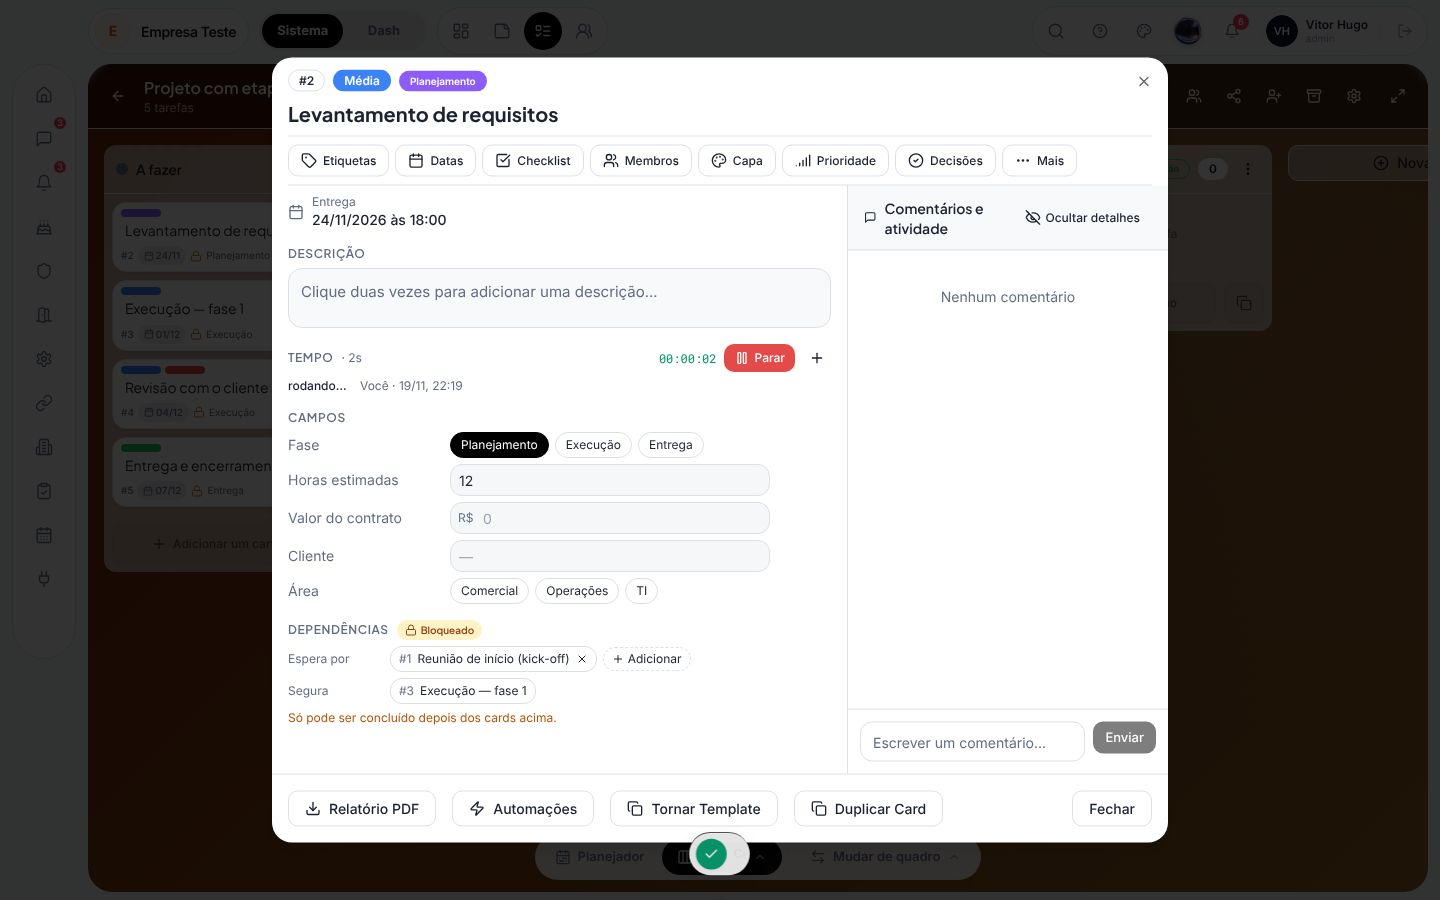
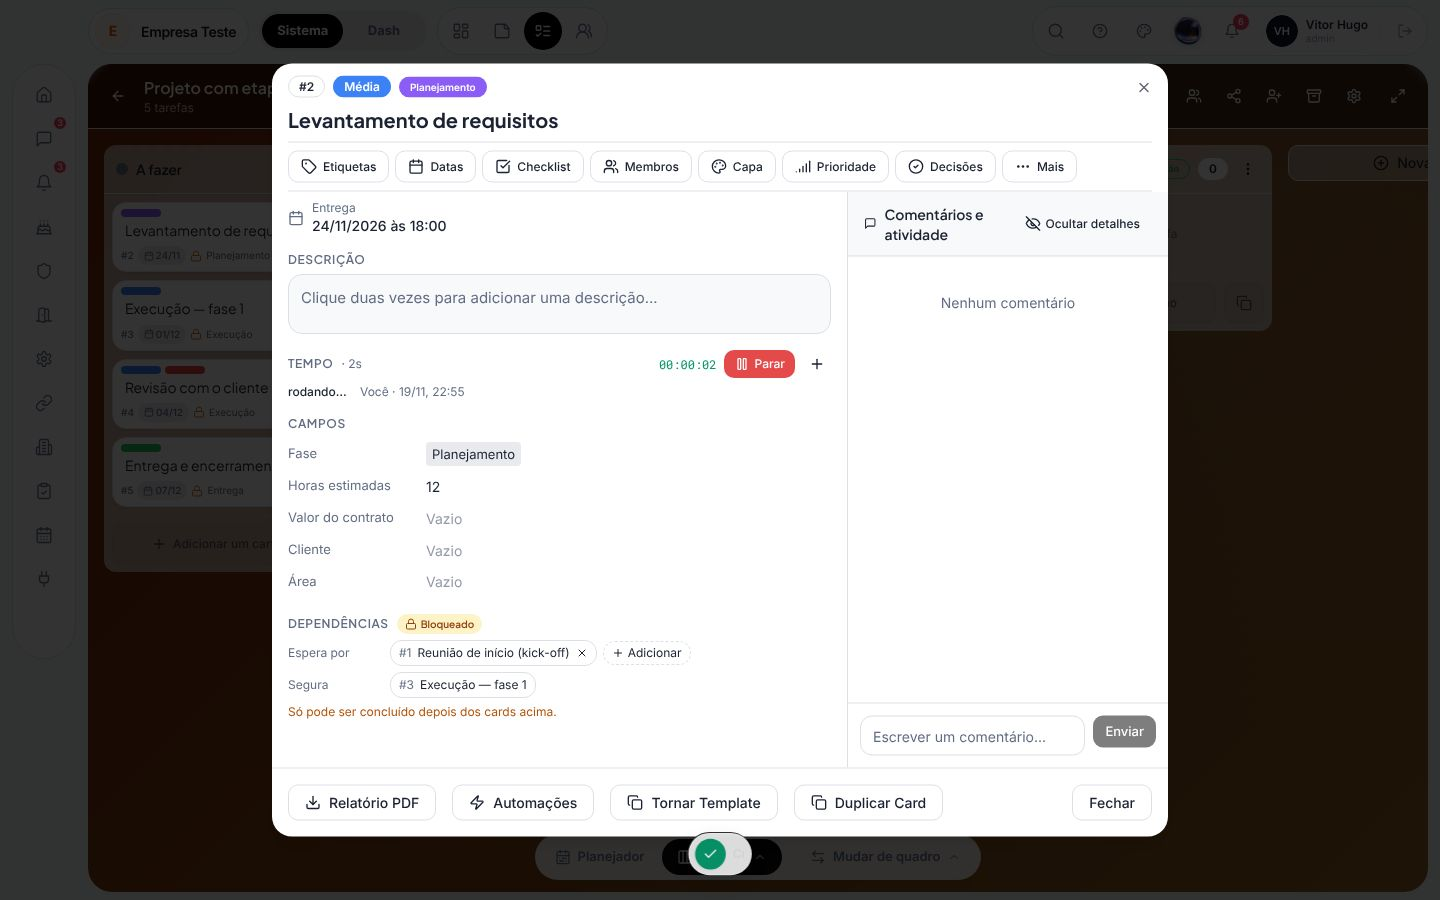
Card: campos personalizados como lista de propriedades limpa (sem caixas, listas e datas em seletor), progresso geral só com vários checklists
Claude-Session: https://claude.ai/code/session_01LEVXUKAxSR1y1Zz3Q6EDm6

diff --git a/src/components/tasks/CardExtrasPanel.tsx b/src/components/tasks/CardExtrasPanel.tsx
@@ -2,7 +2,9 @@
 // dependencies ("Bloqueado por" / "Bloqueia"). Uses the BoardExtrasProvider of the open mural; renders nothing when the
 // card is opened outside a mural.
 import { useEffect, useState } from 'react';
-import { Lock, Plus, Search, X } from 'lucide-react';
+import { ptBR } from 'date-fns/locale';
+import { Calendar } from '@/components/ui/calendar';
+import { Check, Lock, Plus, Search, X } from 'lucide-react';
 import { supabase } from '@/integrations/supabase/client';
 import { useBoardExtras, fieldText, type CustomField } from '@/hooks/useBoardExtras';
 import { Popover, PopoverContent, PopoverTrigger } from '@/components/ui/popover';
@@ -11,18 +13,53 @@ import { CardLinks } from './CardLinks';
 
 type Mini = { id: string; task_number: number | null; title: string; completed_at: string | null; status: string };
 
+// One property row value, Notion-style: no visible box until hover/focus, "Vazio" when empty, lists and dates open
+// a small picker instead of showing every option.
 function FieldInput({ f, value, onChange, disabled }: { f: CustomField; value: unknown; onChange: (v: unknown) => void; disabled?: boolean }) {
-  const [txt, setTxt] = useState(value == null ? '' : String(value));
-  useEffect(() => { setTxt(value == null ? '' : String(value)); }, [value]);
-  const cls = 'h-8 w-full max-w-[320px] rounded-md border border-border bg-background px-2 text-sm outline-none focus:border-primary disabled:opacity-60';
-  if (f.type === 'checkbox') return <button type="button" disabled={disabled} onClick={() => onChange(!value)} className={`h-8 rounded-md border px-3 text-sm ${value ? 'border-emerald-500 bg-emerald-50 text-emerald-700 dark:bg-emerald-950/40 dark:text-emerald-300' : 'border-border'}`}>{value ? 'Sim' : 'Não'}</button>;
+  const show = (v: unknown) => v == null || v === '' ? '' : f.type === 'money' ? Number(v).toLocaleString('pt-BR', { minimumFractionDigits: 2, maximumFractionDigits: 2 }) : f.type === 'number' ? Number(v).toLocaleString('pt-BR') : String(v);
+  const [txt, setTxt] = useState(show(value));
+  const [open, setOpen] = useState(false);
+  useEffect(() => { setTxt(show(value)); /* eslint-disable-next-line react-hooks/exhaustive-deps */ }, [value]);
+  const cell = `flex h-8 w-full items-center gap-1.5 rounded-md px-2 text-left text-sm ${disabled ? '' : 'hover:bg-muted/70 focus-within:bg-muted/70'}`;
+  const empty = <span className="text-muted-foreground/70">Vazio</span>;
+  if (f.type === 'checkbox') return (
+    <button type="button" disabled={disabled} onClick={() => onChange(!value)} className={cell}>
+      <span className={`grid h-4 w-4 place-items-center rounded border ${value ? 'border-primary bg-primary text-primary-foreground' : 'border-muted-foreground/40'}`}>{value ? <Check className="h-3 w-3" strokeWidth={3} /> : null}</span>
+      <span className={value ? '' : 'text-muted-foreground'}>{value ? 'Sim' : 'Não'}</span>
+    </button>);
   if (f.type === 'select') return (
-    <div className="flex flex-wrap gap-1.5">{f.options.map((o) => { const on = value === o; return <button key={o} type="button" disabled={disabled} onClick={() => onChange(on ? null : o)} className={`rounded-full border px-2.5 py-1 text-xs ${on ? 'border-primary bg-primary text-primary-foreground' : 'border-border hover:bg-muted'}`}>{o}</button>; })}{!f.options.length ? <span className="text-xs text-muted-foreground">Sem opções configuradas</span> : null}</div>);
-  if (f.type === 'date') return <input type="date" className={cls} disabled={disabled} value={value ? String(value) : ''} onChange={(e) => onChange(e.target.value || null)} />;
+    <Popover open={open} onOpenChange={(o) => !disabled && setOpen(o)}>
+      <PopoverTrigger asChild>
+        <button type="button" disabled={disabled} className={cell}>{value ? <span className="truncate rounded bg-muted px-1.5 py-0.5 text-[13px]">{String(value)}</span> : empty}</button>
+      </PopoverTrigger>
+      <PopoverContent align="start" className="w-56 p-1">
+        {f.options.map((o) => (
+          <button key={o} type="button" className="flex w-full items-center gap-2 rounded px-2 py-1.5 text-left text-sm hover:bg-muted" onClick={() => { onChange(o); setOpen(false); }}>
+            <span className="flex-1 truncate">{o}</span>{value === o ? <Check className="h-4 w-4 text-primary" /> : null}
+          </button>))}
+        {!f.options.length ? <p className="px-2 py-1.5 text-xs text-muted-foreground">Sem opções configuradas</p> : null}
+        {value ? <button type="button" className="mt-1 w-full rounded border-t border-border px-2 py-1.5 text-left text-xs text-muted-foreground hover:bg-muted" onClick={() => { onChange(null); setOpen(false); }}>Limpar</button> : null}
+      </PopoverContent>
+    </Popover>);
+  if (f.type === 'date') {
+    const sel = value ? (() => { const [y, m, d] = String(value).split('-').map(Number); return new Date(y, m - 1, d); })() : undefined;
+    const ymd = (d: Date) => `${d.getFullYear()}-${String(d.getMonth() + 1).padStart(2, '0')}-${String(d.getDate()).padStart(2, '0')}`;
+    return (
+      <Popover open={open} onOpenChange={(o) => !disabled && setOpen(o)}>
+        <PopoverTrigger asChild><button type="button" disabled={disabled} className={cell}>{value ? fieldText(f, value) : empty}</button></PopoverTrigger>
+        <PopoverContent align="start" className="w-auto p-0">
+          <Calendar mode="single" locale={ptBR} selected={sel} defaultMonth={sel} onSelect={(d) => { onChange(d ? ymd(d) : null); setOpen(false); }} initialFocus />
+          {value ? <button type="button" className="w-full border-t border-border px-3 py-2 text-left text-xs text-muted-foreground hover:bg-muted" onClick={() => { onChange(null); setOpen(false); }}>Limpar data</button> : null}
+        </PopoverContent>
+      </Popover>);
+  }
   const num = f.type === 'number' || f.type === 'money';
-  const commit = () => { const t = txt.trim(); if (!t) { if (value != null) onChange(null); return; } if (num) { const n = Number(t.replace(/\./g, '').replace(',', '.')); if (!isNaN(n) && n !== value) onChange(n); else if (isNaN(n)) setTxt(value == null ? '' : String(value)); } else if (t !== value) onChange(t.slice(0, 500)); };
-  return <div className="relative">{f.type === 'money' ? <span className="pointer-events-none absolute left-2 top-1/2 -translate-y-1/2 text-xs text-muted-foreground">R$</span> : null}
-    <input className={cls + (f.type === 'money' ? ' pl-8' : '')} disabled={disabled} inputMode={num ? 'decimal' : undefined} value={txt} onChange={(e) => setTxt(e.target.value)} onBlur={commit} onKeyDown={(e) => { if (e.key === 'Enter') (e.target as HTMLInputElement).blur(); }} placeholder={num ? '0' : '—'} /></div>;
+  const commit = () => { const t = txt.trim(); if (!t) { if (value != null) onChange(null); return; } if (num) { const n = Number(t.replace(/\./g, '').replace(',', '.')); if (!isNaN(n) && n !== value) onChange(n); else setTxt(show(value)); } else if (t !== value) onChange(t.slice(0, 500)); };
+  return (
+    <label className={cell}>
+      {f.type === 'money' && txt ? <span className="text-muted-foreground">R$</span> : null}
+      <input className="h-full min-w-0 flex-1 bg-transparent outline-none placeholder:text-muted-foreground/70 disabled:cursor-default" disabled={disabled} inputMode={num ? 'decimal' : undefined} value={txt} onChange={(e) => setTxt(e.target.value)} onBlur={commit} onKeyDown={(e) => { if (e.key === 'Enter') (e.target as HTMLInputElement).blur(); }} placeholder="Vazio" />
+    </label>);
 }
 
 export function CardExtrasPanel({ task, boardId, readOnly, conclusionIds, showLinks, showDeps }: { task: { id: string }; boardId: string; readOnly?: boolean; conclusionIds?: Set<string>; showLinks?: boolean; showDeps?: boolean }) {
@@ -49,11 +86,12 @@ export function CardExtrasPanel({ task, boardId, readOnly, conclusionIds, showLi
       {x.fields.length ? (
         <div className="px-4 py-2">
           <H>Campos</H>
-          <div className="grid gap-x-3 gap-y-1.5 sm:grid-cols-[150px_1fr]">
-            {x.fields.map((f) => [
-              <span key={f.id + 'l'} className="self-center truncate text-sm text-muted-foreground" title={f.name}>{f.name}</span>,
-              <div key={f.id + 'v'}><FieldInput f={f} value={x.valueOf(task.id, f.id)} disabled={readOnly} onChange={(v) => void x.setValue(task.id, f.id, v)} /></div>,
-            ])}
+          <div className="-mx-2 max-w-[520px]">
+            {x.fields.map((f) => (
+              <div key={f.id} className="flex items-center gap-2">
+                <span className="w-[130px] shrink-0 truncate px-2 text-[13px] text-muted-foreground" title={f.name}>{f.name}</span>
+                <div className="min-w-0 flex-1"><FieldInput f={f} value={x.valueOf(task.id, f.id)} disabled={readOnly} onChange={(v) => void x.setValue(task.id, f.id, v)} /></div>
+              </div>))}
           </div>
         </div>) : null}
       <CardLinks taskId={task.id} readOnly={readOnly} forceOpen={showLinks} />

diff --git a/src/components/tasks/TaskDetailDialog.tsx b/src/components/tasks/TaskDetailDialog.tsx
@@ -1074,7 +1074,7 @@ export function TaskDetailDialog({ task, open, onOpenChange, onUpdateTask, taskL
     );
   };
 
-  const renderProgress = () => total > 0 ? (
+  const renderProgress = () => total > 0 && groups.length !== 1 ? (
     <div className="px-4 py-1">
       <div className="flex items-center justify-between mb-1">
         <span className="text-xs text-muted-foreground">Progresso geral</span>

diff --git a/AGENTS.md b/AGENTS.md
@@ -104,4 +104,4 @@
 - Competitive pack 1 (Tarefas): "Minhas tarefas" (`/tarefas/minhas-tarefas`, `MyTasksView`: the person's open cards from every mural — assigned_to or task_assignees — grouped Atrasadas/Hoje/Próximos 7 dias/Depois/Sem prazo + concluídas em 7 dias; opens `/tarefas/<slug>?abrir=<task>`, which BoardView handles; the legacy `?board=&task=` redirect now keeps the card as `abrir`). "Modelos" (`TemplatesDialog`, styles src/styles/templates.css prefix `tp-`, theme tokens, no emojis: areas + search on the left, models in the middle with lucide icons, preview of the columns/example cards and "O que vem no modelo" on the right, name + "Usar modelo" in the footer). src/lib/boardTemplates.ts has 16 models in 6 areas (`TEMPLATE_AREAS`); each = columns, labels, example cards (relative start/due dates, checklists) through importBoard with an explicit conclusion column (`DONE_COL` → `ImpBoard.doneCol`), then `applyTemplateExtras` adds custom fields + values, dependencies, instant automation rules (columns/labels resolved by name) and, for some, a public form created PAUSED (`enabled:false`). Public form per mural (migration 20261119050000: `board_forms` + `board_form_hits`, RPCs `public_form_view` / `public_form_submit` for anon; first question = card title, others go escaped into the description; honeypot `_hp`; 20/min and 1000/day per form; page `/f/:token` PublicForm; builder `BoardFormSection` in the Compartilhar dialog). Custom fields + dependencies (migration 20261119060000: `board_custom_fields` text|number|money|date|select|checkbox, `task_field_values` JSON, `task_dependencies` with cycle check in the client and a direct-cycle check in RLS, trigger `tasks_dependency_guard` raises CARD_BLOCKED when concluding a card with an open blocker (skipped under `ewvon.wr_sync`); `tasks.start_date`, returned by `get_board_tasks_fast` since migration 20261119070000). `BoardExtrasProvider`/`useBoardExtras` (src/hooks/useBoardExtras.tsx) wraps BoardView (BoardViewInner) so the card dialog (`CardExtrasPanel`: fields, start date, Bloqueado por/Bloqueia), kanban cards (field chips with show_on_card + "Bloqueado"), Lista (one column per field) and views share them; `moveToColumn`/`handleQuickComplete` refuse conclusion while a blocker is open; fields are managed in `CustomFieldsDialog` (header icon SlidersHorizontal, board owner/admin). New views in the bottom "Quadro" menu: Linha do tempo (`TimelineView`: bars start_date→due_date, drag to move/resize, click empty row to date a card, dependency arrows, Dias/Semanas), Carga de trabalho (`WorkloadView`: open cards per person × Atrasados/4 weeks/Depois/Sem prazo + hours this week from task_time_entries) and Relatórios (`InsightsView`: KPIs, criados × concluídos 8 weeks, cards por coluna, por pessoa, Baixar PDF via openReport).
 - Competitive pack 2 (migration 20261119080000): guest comments on the public mural link (`board_public_links.allow_comments`, table `guest_comments`, anon RPC `public_board_comment` comment|approve|reject, 15/min and 500/day per link; each one is also copied to the card's `task_comments` as "💬/✅/⛔ Convidado <nome>" authored by the board owner; `public_board_view` returns allow_comments + the last 30 guest comments per card; /m/:token opens a side panel per card, name remembered in localStorage `ewvon:guest-name`); external links per card (`task_links`, `CardLinks` inside CardExtrasPanel, provider badge by URL: Google Docs/Planilhas/Apresentações/Drive, OneDrive/SharePoint, Dropbox, Figma, Notion, YouTube, GitHub, Canva, Miro, Loom); full API on the mural key (`board_inbound_keys.scope` create|full, checkbox "API completa" in InboundKeySection; `cards-in` v2: GET list ?column=&q=&open=1&limit=, GET ?id= with description/fields/links/checklist, PATCH ?id= title/description/due_date/priority/assignee_email/column/done, refuses War Room-locked cards and returns CARD_BLOCKED text). Public pages: /desenvolvedores (DevDocs) and /seguranca (SecurityPage) in src/pages/DevDocs.tsx (data in sa-east-1/São Paulo; only claims that are true — no backup promises), /guia + /guia/:slug (GuideCenter, content in src/lib/guideArticles.ts, styles src/styles/guide.css prefix gd-, screenshots public/guia/*.jpg captured by scripts/guide-shots.cjs in test mode with fictional data — recapture when a screen changes). Test mode (demoClient) now implements my_calendar_feed, task_timer, public_form_view/submit, public_board_view/comment, send_test_webhook, table defaults for the new tables and task numbering. `Sel` lists opt back into pointer events (pointer-events:auto + stopPropagation) so they work inside Radix dialogs. Murals created from a template or an import open by their slug URL (`openNewBoard`).
 - Assignee lists include yourself: `useActiveUsers` leaves the current profile out (chat), so TaskBoardSection's `allUsers` (card dialog Membros/Responsável) and BoardAltViews' `users` (Lista, Carga) add the logged-in profile back — an admin/owner who can open the mural can assign themselves. The new-card dialog uses the board members (the owner is always a member). `useBoardTasks.updateTask` re-reads the new responsible's profile after any `assigned_to` change and patches `assignee` (the card/dialog show `assignee`, not `assigned_to`), so the new name/photo appears at once instead of only after a reload.
-- Card dialog stays clean: time tracking, external links and dependencies only show when they have content or after "Mais" (TaskDetailDialog `extraOpen`); start date lives in the "Datas" popover; custom fields default to `show_on_card:false` and kanban cards show at most 2 field values; Sel in the newer task/integration screens carries `ui-sel` (buttons.css) to look like the system inputs.
+- Card dialog stays clean: time tracking, external links and dependencies only show when they have content or after "Mais" (TaskDetailDialog `extraOpen`); start date lives in the "Datas" popover; custom fields are a Notion-style property list in CardExtrasPanel (label column + borderless value that highlights on hover, "Vazio" when empty; lists open a small option popover, dates open the system Calendar popover in pt-BR, money/number shown formatted) and default to `show_on_card:false`; the checklist "Progresso geral" bar only shows when there is not exactly one checklist (the checklist header already shows x/y) and kanban cards show at most 2 field values; Sel in the newer task/integration screens carries `ui-sel` (buttons.css) to look like the system inputs.
